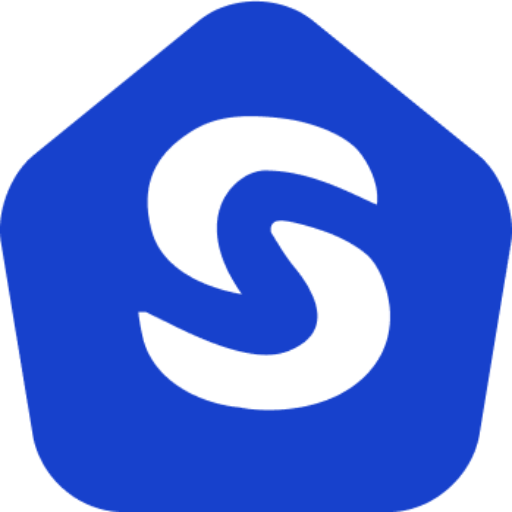
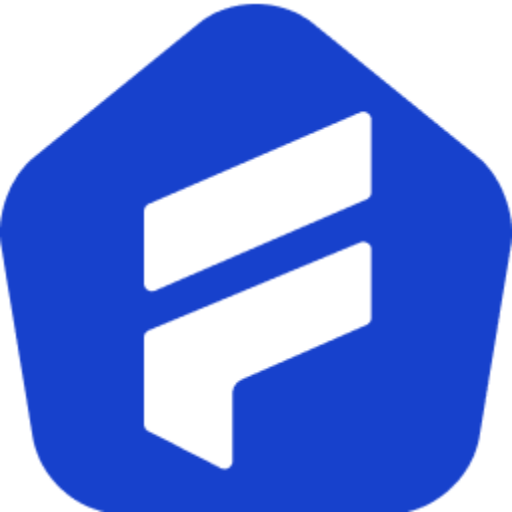
Branding Updates

diff --git a/src/components/FAQs/index.tsx b/src/components/FAQs/index.tsx
@@ -22,36 +22,36 @@ const QuestionMark = () => {
 
 const faq = [
     {
-        question: 'What is Sabiwork?',
-        answer: 'Sabiwork is an app that connects individuals with skilled service providers in their area. Whether you need a plumber, electrician, mechanic, or any other professional, Sabiwork helps you find and hire reliable services quickly and easily.'
+        question: 'What is Findam?',
+        answer: 'Findam is an app that connects individuals with skilled service providers in their area. Whether you need a plumber, electrician, mechanic, or any other professional, Findam helps you find and hire reliable services quickly and easily.'
     },
     {
-        question: 'Is Sabiwork free?',
+        question: 'Is Findam free?',
         answer: 'Both service providers and clients can download and use the app for free, no subscription fee attracted to both users.'
     },
     {
-        question: 'Can I trust the professionals on Sabiwork?',
-        answer: 'We vet all service providers before they are listed on Sabiwork. Additionally, each provider has a profile with customer reviews and ratings to help you make an informed decision.'
+        question: 'Can I trust the professionals on Findam?',
+        answer: 'We vet all service providers before they are listed on Findam. Additionally, each provider has a profile with customer reviews and ratings to help you make an informed decision.'
     },
     {
-        question: 'How can service providers make money on Sabiwork?',
-        answer: 'Service providers can make money from Sabiwork by being hired to do a job, every transaction you make would be between you and the client.',
+        question: 'How can service providers make money on Findam?',
+        answer: 'Service providers can make money from Findam by being hired to do a job, every transaction you make would be between you and the client.',
     },
     {
         question: 'Can I communicate with the service provider before booking?',
         answer: 'Yes, you can use the in-app messaging feature to communicate with service providers before making a booking to discuss your needs, negotiate, and ask any questions.',
     },
     {
-        question: 'How do I contact Sabiwork Customer Support?',
-        answer: 'You can reach our customer support team via support@sabiwork.app, you can also reach us through the app or via our social media pages. We are here to help with any questions or issues you may have.',
+        question: 'How do I contact Findam Customer Support?',
+        answer: 'You can reach our customer support team via hello@findam.co, you can also reach us through the app or via our social media pages. We are here to help with any questions or issues you may have.',
     },
     {
-        question: 'Can I hire or make transactions outside of sabiwork?',
-        answer: 'To ensure a smooth experience between clients and service providers, we strongly recommend using the app for all hiring and transactions. Any arrangement or payments made outside of Sabiwork are at the clients own risk, and Sabiwork will not be responsible for any associated costs.',
+        question: 'Can I hire or make transactions outside of findam?',
+        answer: 'To ensure a smooth experience between clients and service providers, we strongly recommend using the app for all hiring and transactions. Any arrangement or payments made outside of Findam are at the clients own risk, and Findam will not be responsible for any associated costs.',
     },
     {
-        question: 'Is Sabiwork nationwide?',
-        answer: 'No, Sabiwork only operates in 3 states for now which are Lagos State, Rivers State, and Abuja. We aim is continually expanding its service areas. Enter your location in the app to see if we have service providers in your area.',
+        question: 'Is Findam nationwide?',
+        answer: 'No, Findam only operates in 3 states for now which are Lagos State, Rivers State, and Abuja. We aim is continually expanding its service areas. Enter your location in the app to see if we have service providers in your area.',
     }
 
 

diff --git a/src/components/Footer/index.tsx b/src/components/Footer/index.tsx
@@ -1,28 +1,28 @@
 import Image from "next/image"
 import { Container, Box, Flex, Divider } from "theme-ui";
 
-const footerContacts = ["info@sabiwork.app", "+234 704 4284 237"];
+const footerContacts = ["hello@findam.co", "+234 704 4284 237"];
 
 
 export const footerSocials = [
   {
     title: "Facebook",
-    href: "https://web.facebook.com/sabiworkapp",
+    href: "https://web.facebook.com/findamapp",
     image: "/facebook.svg",
   },
   {
     title: "Twitter",
-    href: "https://x.com/sabiworkapp",
+    href: "https://x.com/findamHQ?t=CraBl5INpVim6cg76HIJPA&s=09",
     image: "/twitter.svg",
   },
   {
     title: "Instagram",
-    href: "https://www.instagram.com/sabiworkapp/",
+    href: "https://www.instagram.com/findamhq?igsh=dDl6bHV5bjJpYW5v",
     image: "/instagram.svg",
   },
   {
     title: "LinkedIn",
-    href: "https://linkedin.com/company/sabiwork-ng/",
+    href: "https://linkedin.com/company/findam-ng/",
     image: "/linkedIn.svg",
   },
 ];
@@ -143,7 +143,7 @@ const Footer = () => {
           color: '#252627',
 
         }}
-        >&copy; 2024 Sabiwork. All rights reserved</Box>
+        >&copy; 2024 Findam. All rights reserved</Box>
       </Container>
     </>
 

diff --git a/src/config/next-seo.ts b/src/config/next-seo.ts
@@ -1,10 +1,10 @@
 export default {
-    title: 'Landing | Sabiwork',
+    title: 'Landing | Findam',
     description: 'Access top-tier professionals remotely, revolutionizing the way you hire and collaborate, all from the comfort of your home.',
     openGraph: {
       type: 'website',
       locale: 'en_EN',
-      url: 'https://www.sabiwork.app/',
-      site_name: 'Sabiwork',
+      url: 'https://www.findam.co/',
+      site_name: 'Findam',
     }
   };

diff --git a/src/pages/api/hello.ts b/src/pages/api/hello.ts
@@ -16,7 +16,7 @@ export default async function handler(req: NextApiRequest, res: NextApiResponse)
   if (req.method === 'POST') {
       try {
           const client = await clientPromise;
-          const db = client.db('sabi');
+          const db = client.db('findam');
 
           const { name, email, mobileNumber, service, state, town }: RequestBody = req.body;
 
